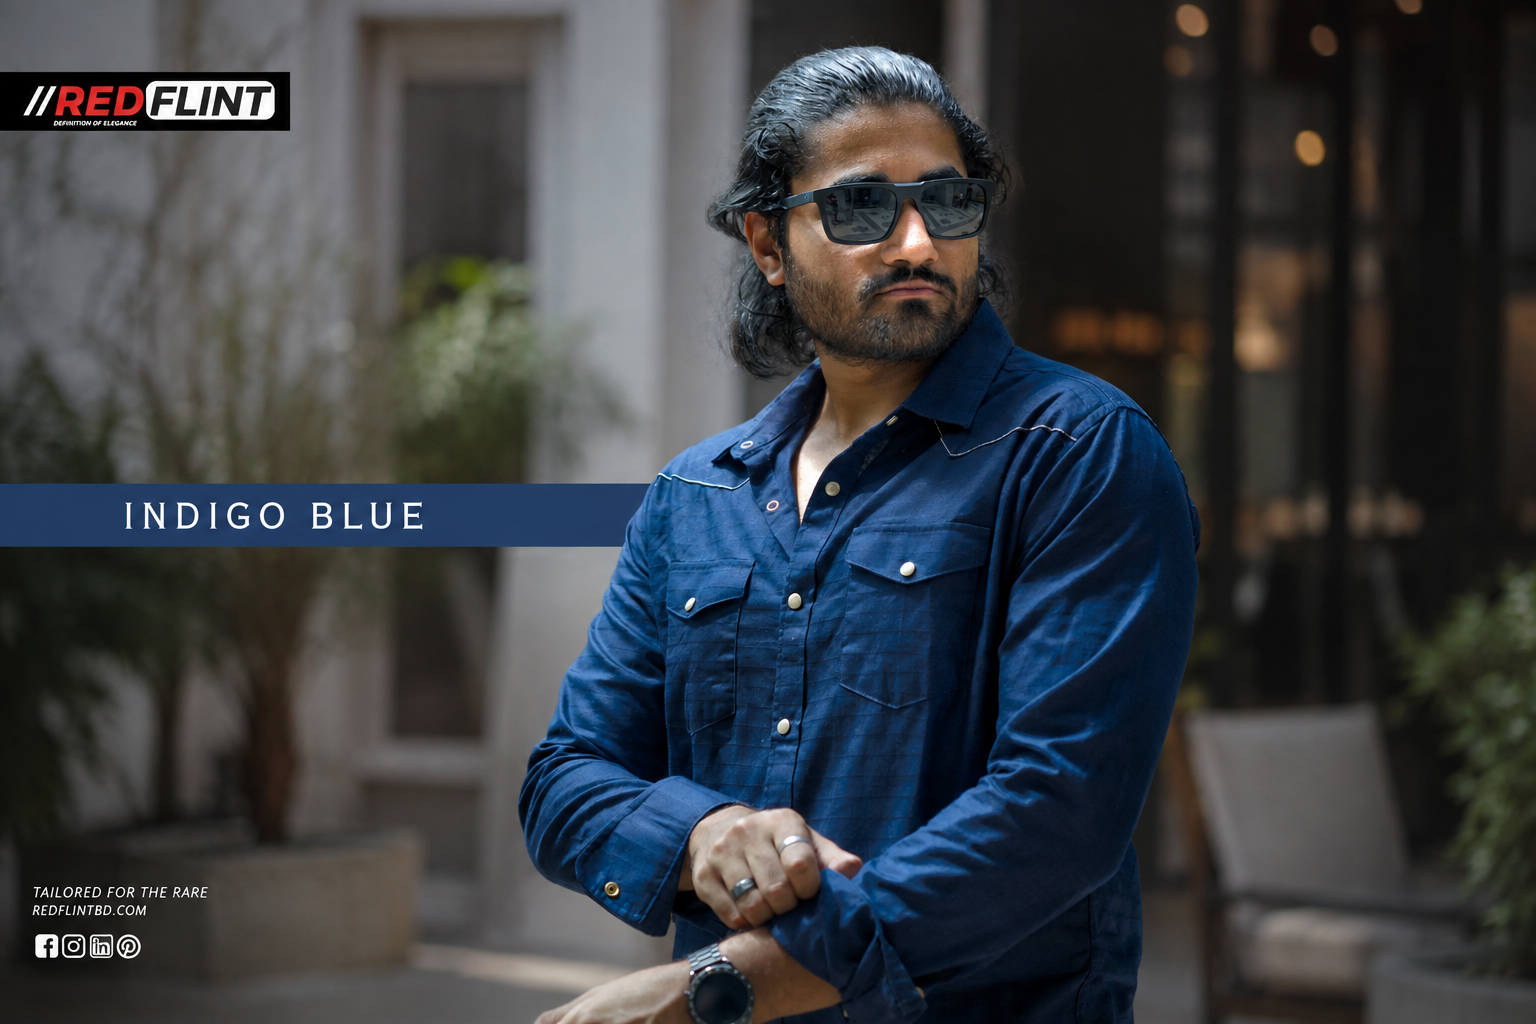
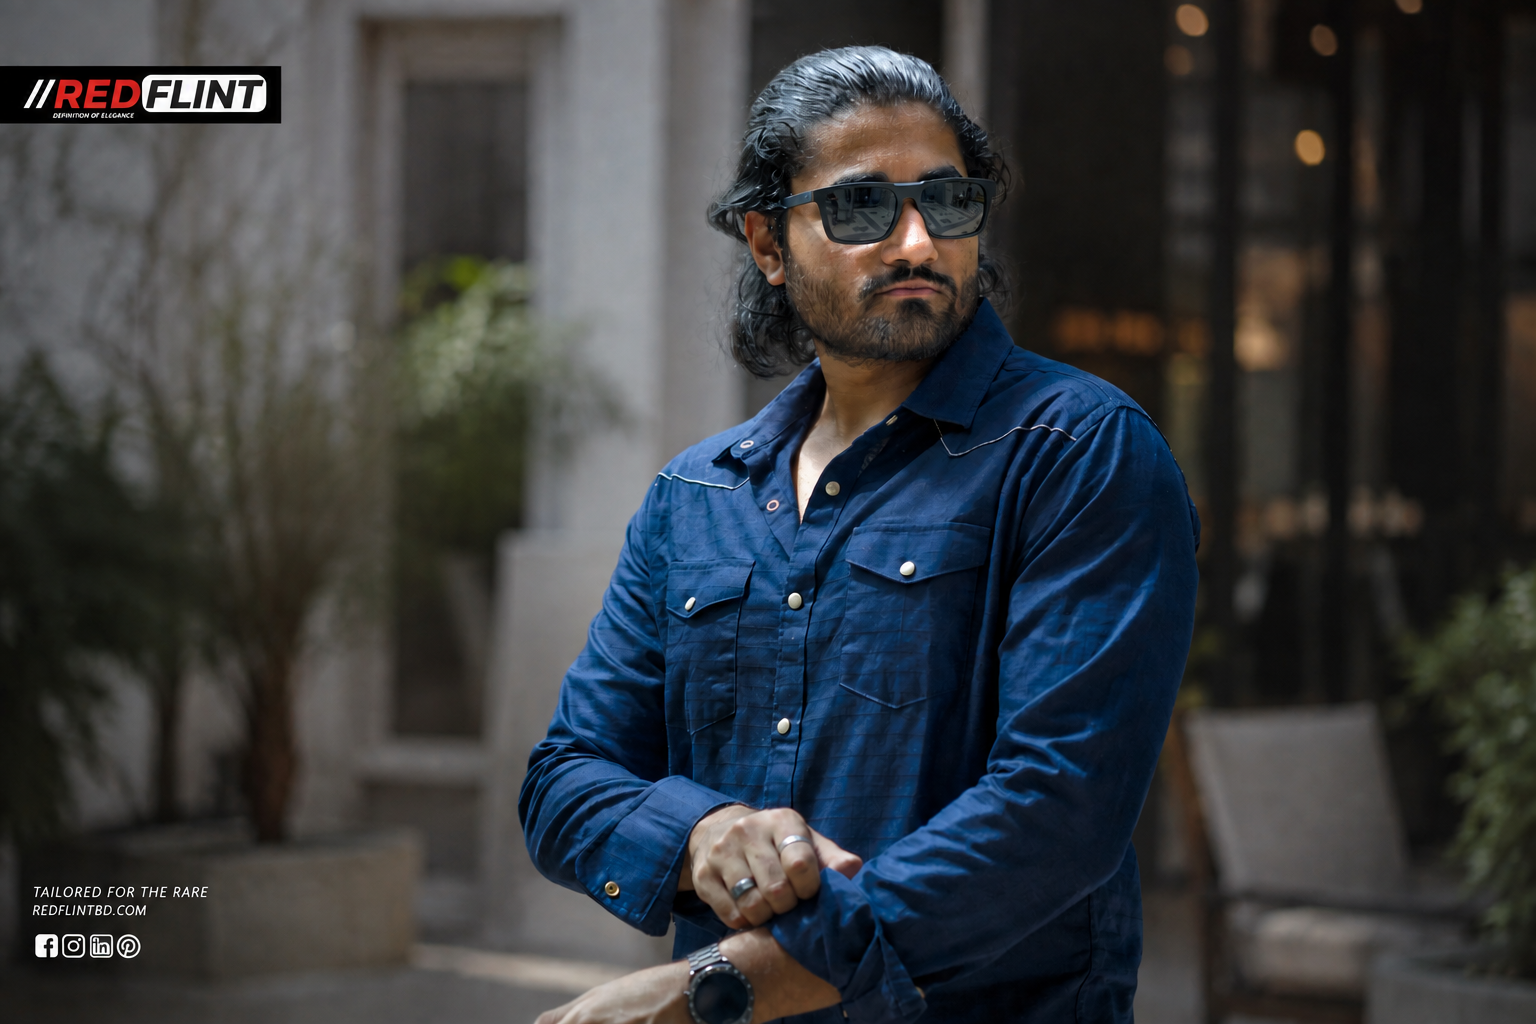
Added Sorting functionality in products.jsx

diff --git a/src/pages/Products.jsx b/src/pages/Products.jsx
@@ -5,8 +5,11 @@ import useAxiosSecure from "../hooks/useAxiosSecure";
 import Product from "../components/shared/Product";
 
 const Products = () => {
-  const [searchParams] = useSearchParams();
+  const [searchParams, setSearchParams] = useSearchParams();
+
   const search = searchParams.get("search") || "";
+
+  const sort = searchParams.get("sort") || "newest";
 
   const axiosSecure = useAxiosSecure();
 
@@ -22,64 +25,106 @@ const Products = () => {
       .get("/products", {
         params: {
           search,
+          sort,
         },
       })
-      .then((res) => {
-        setProducts(Array.isArray(res.data) ? res.data : []);
+      .then((response) => {
+        setProducts(Array.isArray(response.data) ? response.data : []);
       })
       .catch((error) => {
-        console.error(error);
+        console.error("Products loading error:", error);
+
         setProducts([]);
         setError("Failed to load products.");
       })
       .finally(() => {
         setIsLoading(false);
       });
-  }, [axiosSecure, search]);
+  }, [axiosSecure, search, sort]);
+
+  const handleSortChange = (event) => {
+    const selectedSort = event.target.value;
+
+    const updatedParams = new URLSearchParams(searchParams);
+
+    if (selectedSort === "newest") {
+      updatedParams.delete("sort");
+    } else {
+      updatedParams.set("sort", selectedSort);
+    }
+
+    setSearchParams(updatedParams);
+  };
 
   return (
-    <div className="max-w-7xl mx-auto px-6 py-10">
+    <div className="max-w-7xl mx-auto px-4 sm:px-6 py-10">
+      {/* Breadcrumb */}
       <div className="breadcrumbs text-sm mb-8">
         <ul>
           <li>
             <Link to="/">Home</Link>
           </li>
+
           <li>Products</li>
         </ul>
       </div>
 
-      {search && (
-        <div className="mb-6">
-          <h2 className="text-2xl font-semibold">
-            Search results for "{search}"
-          </h2>
+      {/* Heading and sorting */}
+      <div className="flex flex-col sm:flex-row sm:items-end sm:justify-between gap-5 mb-8">
+        <div>
+          <h1 className="text-3xl font-bold">
+            {search ? `Search results for "${search}"` : "All Products"}
+          </h1>
 
           {!isLoading && !error && (
-            <p className="text-base-content/60">
+            <p className="mt-2 text-sm text-base-content/60">
               {products.length} product
               {products.length !== 1 ? "s" : ""} found
             </p>
           )}
         </div>
-      )}
 
+        <label className="flex w-full sm:w-72 flex-col items-center gap-3">
+          <span className="w-full text-center text-lg font-semibold">
+            Sort Products
+          </span>
+
+          <select
+            value={sort}
+            onChange={handleSortChange}
+            className="select select-bordered w-full"
+          >
+            <option value="newest">Newest First</option>
+            <option value="oldest">Oldest First</option>
+            <option value="name-asc">Name: A to Z</option>
+            <option value="name-desc">Name: Z to A</option>
+            <option value="price-asc">Price: Low to High</option>
+            <option value="price-desc">Price: High to Low</option>
+          </select>
+        </label>
+      </div>
+
+      {/* Loading */}
       {isLoading ? (
         <div className="py-20 text-center">
           <span className="loading loading-spinner loading-lg"></span>
+
           <p className="mt-4 text-base-content/60">Loading products...</p>
         </div>
       ) : error ? (
+        /* Error */
         <div className="py-20 text-center">
           <h2 className="text-2xl font-bold text-error">{error}</h2>
         </div>
       ) : products.length === 0 ? (
+        /* Empty results */
         <div className="text-center py-20">
           <h2 className="text-3xl font-bold">No products found</h2>
-          <p className="text-base-content/60 mt-3">
-            Try another search term.
-          </p>
+
+          <p className="text-base-content/60 mt-3">Try another search term.</p>
         </div>
       ) : (
+        /* Product grid */
         <div className="grid grid-cols-2 lg:grid-cols-3 gap-3 sm:gap-6">
           {products.map((product) => (
             <Product key={product._id} product={product} />

diff --git a/src/components/shared/Carousel.jsx b/src/components/shared/Carousel.jsx
@@ -1,7 +1,8 @@
 import React from "react";
 import { Swiper, SwiperSlide } from "swiper/react";
 import { Navigation, Pagination, Autoplay } from "swiper/modules";
-import { motion } from "framer-motion"; 
+import { motion } from "framer-motion";
+import { Link } from "react-router";
 
 import "swiper/css";
 import "swiper/css/navigation";
@@ -62,7 +63,7 @@ const HeroSection = () => {
                 }}
               >
                 {/* Overlay */}
-                <div className="absolute inset-0 bg-gradient-to-r from-black/90 via-black/60 to-black/30" />
+                <div className="absolute inset-0 bg-black/40"></div>
 
                 {/* Content */}
                 <div className="relative z-10 flex h-full items-center px-6 md:px-20">
@@ -95,6 +96,21 @@ const HeroSection = () => {
                     </motion.p>
                   </div>
                 </div>
+
+                {/* View Collection button */}
+                <motion.div
+                  initial={{ opacity: 0, x: 20 }}
+                  animate={isActive ? { opacity: 1, x: 0 } : {}}
+                  transition={{ duration: 0.5, delay: 0.6 }}
+                  className="absolute bottom-5 right-5 md:bottom-8 md:right-8 z-20"
+                >
+                  <Link
+                    to="/products"
+                    className="inline-flex items-center justify-center rounded-lg bg-red-600 px-5 py-2.5 text-sm font-semibold text-white shadow-lg transition hover:bg-red-700"
+                  >
+                    View Collection
+                  </Link>
+                </motion.div>
               </div>
             )}
           </SwiperSlide>
